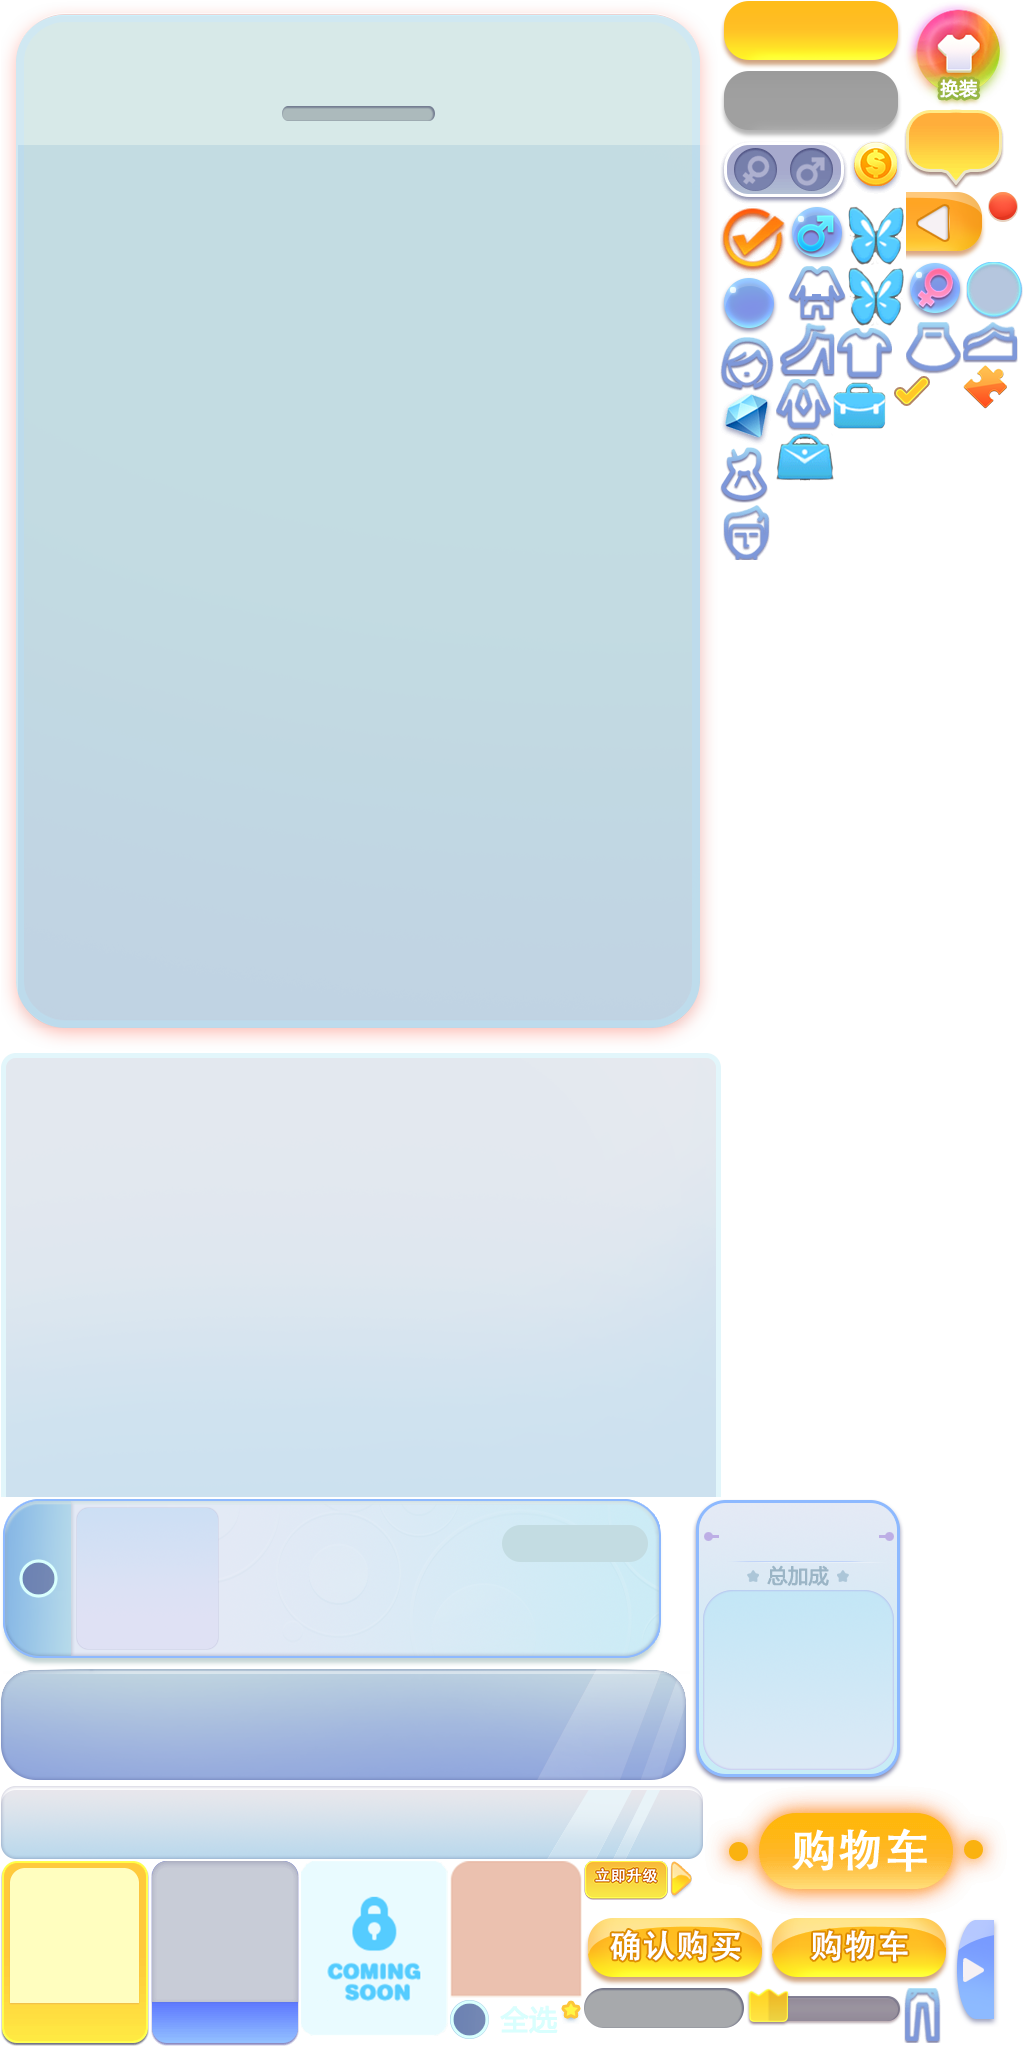
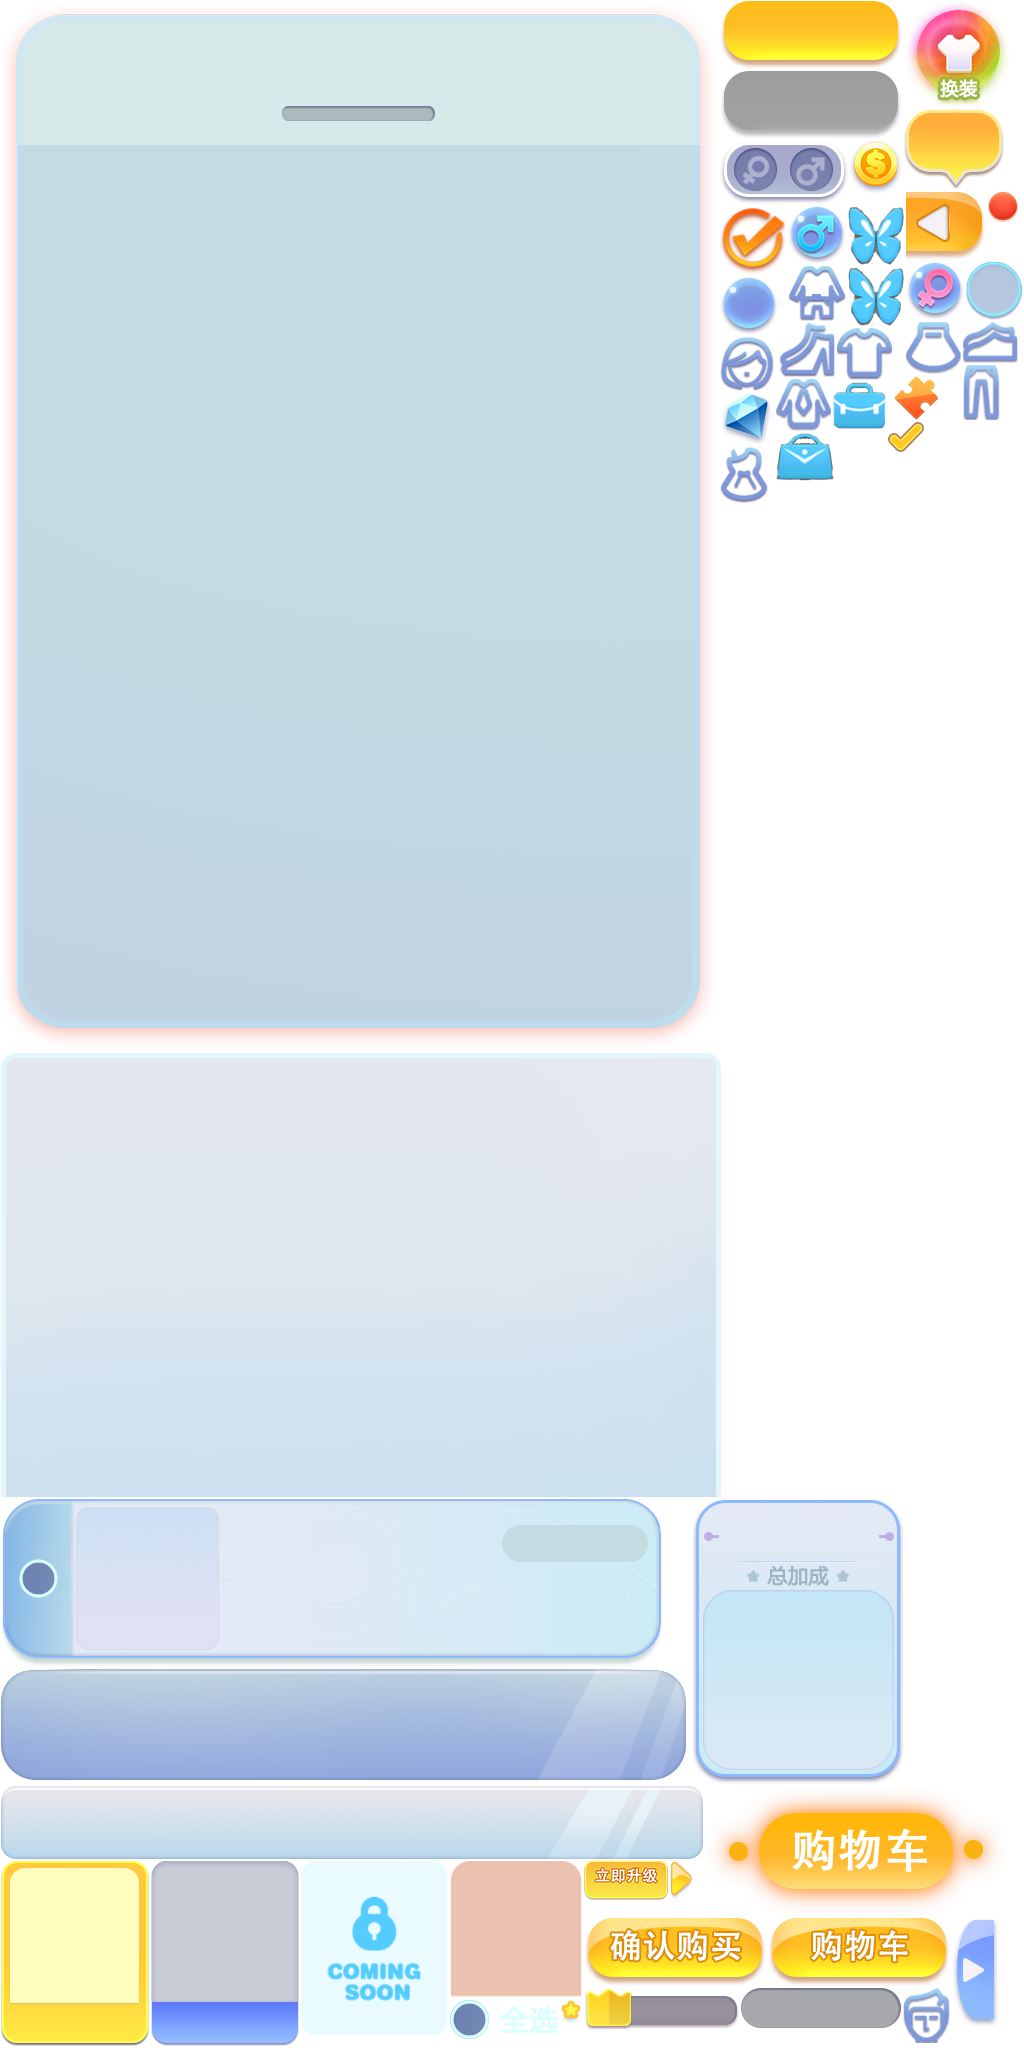
升级增加

diff --git a/ClientBoss/src/game/scenes/role/RoleDress.ts b/ClientBoss/src/game/scenes/role/RoleDress.ts
@@ -4,9 +4,10 @@ module game {
         grp_dressinfo   : eui.Group;
         grp_role        : eui.Group;
         grp_misc        : eui.Group;
-
         topGroup        : eui.Group;
         roleGroup       : eui.Group;
+        composeGroup    : eui.Group;
+        uncomposeGroup  : eui.Group;
 
         icon_boy        : eui.Image;
         icon_girl       : eui.Image;
@@ -16,6 +17,7 @@ module game {
 
         btn_close       : IconButton;
         btn_compose     : IconButton;
+        btn_level       : IconButton;
 
         sr_item         : eui.Scroller;
         ls_items        : eui.List;
@@ -34,8 +36,9 @@ module game {
         test_itemprice  : game.ItemPrice;
         dress_info      : game.EquipInfo;
 
-        composeGroup    : eui.Group;
-        uncomposeGroup  : eui.Group;
+        lvLabel         : eui.Label;
+        produceGoldLabel: eui.Label;
+        maxGoldLabel    : eui.Label;
 
         private _dataProv: eui.ArrayCollection;
 
@@ -54,7 +57,6 @@ module game {
         private _roleBone: RoleBone;
 
         private _curEquipInfo: table.IEquipDefine;
-
 //-------------------------------数据分割------------------------------------------------------------
 
         protected getSkinName() {
@@ -87,6 +89,7 @@ module game {
 
             this.btn_close.icon = "dress_01_json.dress_01_16";
             this.btn_compose.icon = "dress_01_json.composeBtn";
+            this.btn_level.icon = "dress_01_json.maidLevelUp"
 
             this.initItemList();
 
@@ -110,6 +113,7 @@ module game {
             this._touchEvent = [
                 { target: this.btn_close, callBackFunc: this.OnCloseHandle },
                 { target: this.btn_compose, callBackFunc: this.OnComposeHandle },
+                { target: this.btn_level, callBackFunc: this.OnLevelUpHandle },
             ];
 
             this._partsToggles = [
@@ -132,6 +136,8 @@ module game {
             this.updateCoins();
             this.switchSex();
            
+            //等级信息
+            this.initLevelMaid();
             // DataManager.playerModel.skillUpdate();
         }
 
@@ -140,12 +146,20 @@ module game {
             this._roleBonePool.destroyAllObject();
         }
 
-
         private initItemList() {
             this._dataProv = new eui.ArrayCollection();
             this.ls_items.dataProvider = this._dataProv;
             this.ls_items.itemRenderer = game.ItemPrice;
             this.ls_items.addEventListener(eui.ItemTapEvent.ITEM_TAP, this.onSelItem, this);
+        }
+
+        private initLevelMaid() {
+            let levelInfo = table.TLevelMaidById[DataManager.playerModel.getMaidInfo().level];
+            if (levelInfo) {
+                this.lvLabel.text = "Lv."+DataManager.playerModel.getMaidInfo().level;
+                this.produceGoldLabel.text = "产能：" + levelInfo.ProduceGold/(Number(levelInfo.ProduceTime)/60) + "/分钟";
+                this.maxGoldLabel.text = "上限：" + levelInfo.ProduceGold + "金币";
+            }
         }
 
         private updateCoins() {
@@ -397,6 +411,10 @@ module game {
             sendMessage("msg.C2GW_MakeClothes", msg.C2GW_MakeClothes.encode({
                 debris: this._curEquipInfo.DebrisId
             }));
+        }
+
+        private OnLevelUpHandle() {
+            
         }
 
         private OnCloseHandle() {

diff --git a/ClientBoss/src/core/model/PlayerModel.ts b/ClientBoss/src/core/model/PlayerModel.ts
@@ -39,7 +39,8 @@ module game {
         private _carRecords: string[] = [];
         private _personalImage: msg.IItemData[];
         private _houseMaidInfo: msg.GW2C_SendHouseMaidInfo;
-        private _myMaidInfo: msg.IHouseMaidData;
+        private _userMaidInfo: msg.GW2C_SendUserMaidInfo;
+        private _mainMaidInfo: msg.IHouseMaidData;
 
         public RegisterEvent() {
             NotificationCenter.addObserver(this, this.OnGW2C_RetUserInfo, "msg.GW2C_SendUserInfo");
@@ -56,6 +57,7 @@ module game {
             NotificationCenter.addObserver(this, this.OnGW2C_ResCarInfo, "msg.GW2C_ResCarInfo");
             NotificationCenter.addObserver(this, this.OnGW2C_SynParkingRecord, "msg.GW2C_SynParkingRecord");
             NotificationCenter.addObserver(this, this.OnGW2C_CarAutoBack, "msg.GW2C_CarAutoBack");
+            NotificationCenter.addObserver(this, this.OnGW2C_SendUserMaidInfo, "msg.GW2C_SendUserMaidInfo");
             NotificationCenter.addObserver(this, this.OnGW2C_SendHouseMaidInfo, "msg.GW2C_SendHouseMaidInfo");
         }
 
@@ -79,16 +81,20 @@ module game {
             this._tasks = data.base.task.tasks;
         }
 
-        private OnGW2C_SendHouseMaidInfo(data: msg.GW2C_SendHouseMaidInfo) {
-            this._houseMaidInfo = data;
+        private OnGW2C_SendUserMaidInfo(data: msg.GW2C_SendUserMaidInfo) {
+            this._userMaidInfo = data;
 
             for (let i=0; i<data.maids.length; i++) {
                 if (this.userInfo.userid == data.maids[i].ownerid) {
                     this._personalImage = data.maids[i].clothes;
-                    this._myMaidInfo = data.maids[i];
+                    this._mainMaidInfo = data.maids[i];
                     break;
                 }
             }
+        }
+
+        private OnGW2C_SendHouseMaidInfo(data: msg.GW2C_SendHouseMaidInfo) {
+            this._houseMaidInfo = data;
         }
 
         private OnGW2C_ResCarInfo(data: msg.GW2C_ResCarInfo){
@@ -519,7 +525,7 @@ module game {
         }
 
         public getMaidInfo() {
-            return this._myMaidInfo;
+            return this._mainMaidInfo;
         }
     }
 }

diff --git a/ClientBoss/src/game/scenes/role/ItemPrice.ts b/ClientBoss/src/game/scenes/role/ItemPrice.ts
@@ -39,8 +39,7 @@ module game {
             //Icon
             let txtr:egret.Texture = RES.getRes(equipData.Path);
             let factor = equipData.Pos==7 ? 0.7 : 0.8;
-            if(txtr)
-            {
+            if (txtr) {
                 this.img_equip.source    = txtr;
                 this.img_equip.width     = txtr.textureWidth * factor;
                 this.img_equip.height    = txtr.textureHeight * factor;
@@ -55,7 +54,7 @@ module game {
                 this.txt_obtained.visible = false;
                 if (equipData.CoinType == (msg.MoneyType._Gold || msg.MoneyType._Diamond)) {
                     this.grp_price.visible = true;
-                    this.img_price.source =  equipData.CoinType == msg.MoneyType._Gold ? "dress_01_json.dress_gold" : "dress_01_json.dress_01_19";
+                    this.img_price.source = equipData.CoinType == msg.MoneyType._Gold ? "dress_01_json.dress_gold" : "dress_01_json.dress_01_19";
                     this.txt_price.text = equipData.Price.toString();
                 } else {
                     this.grp_item.visible = true;
